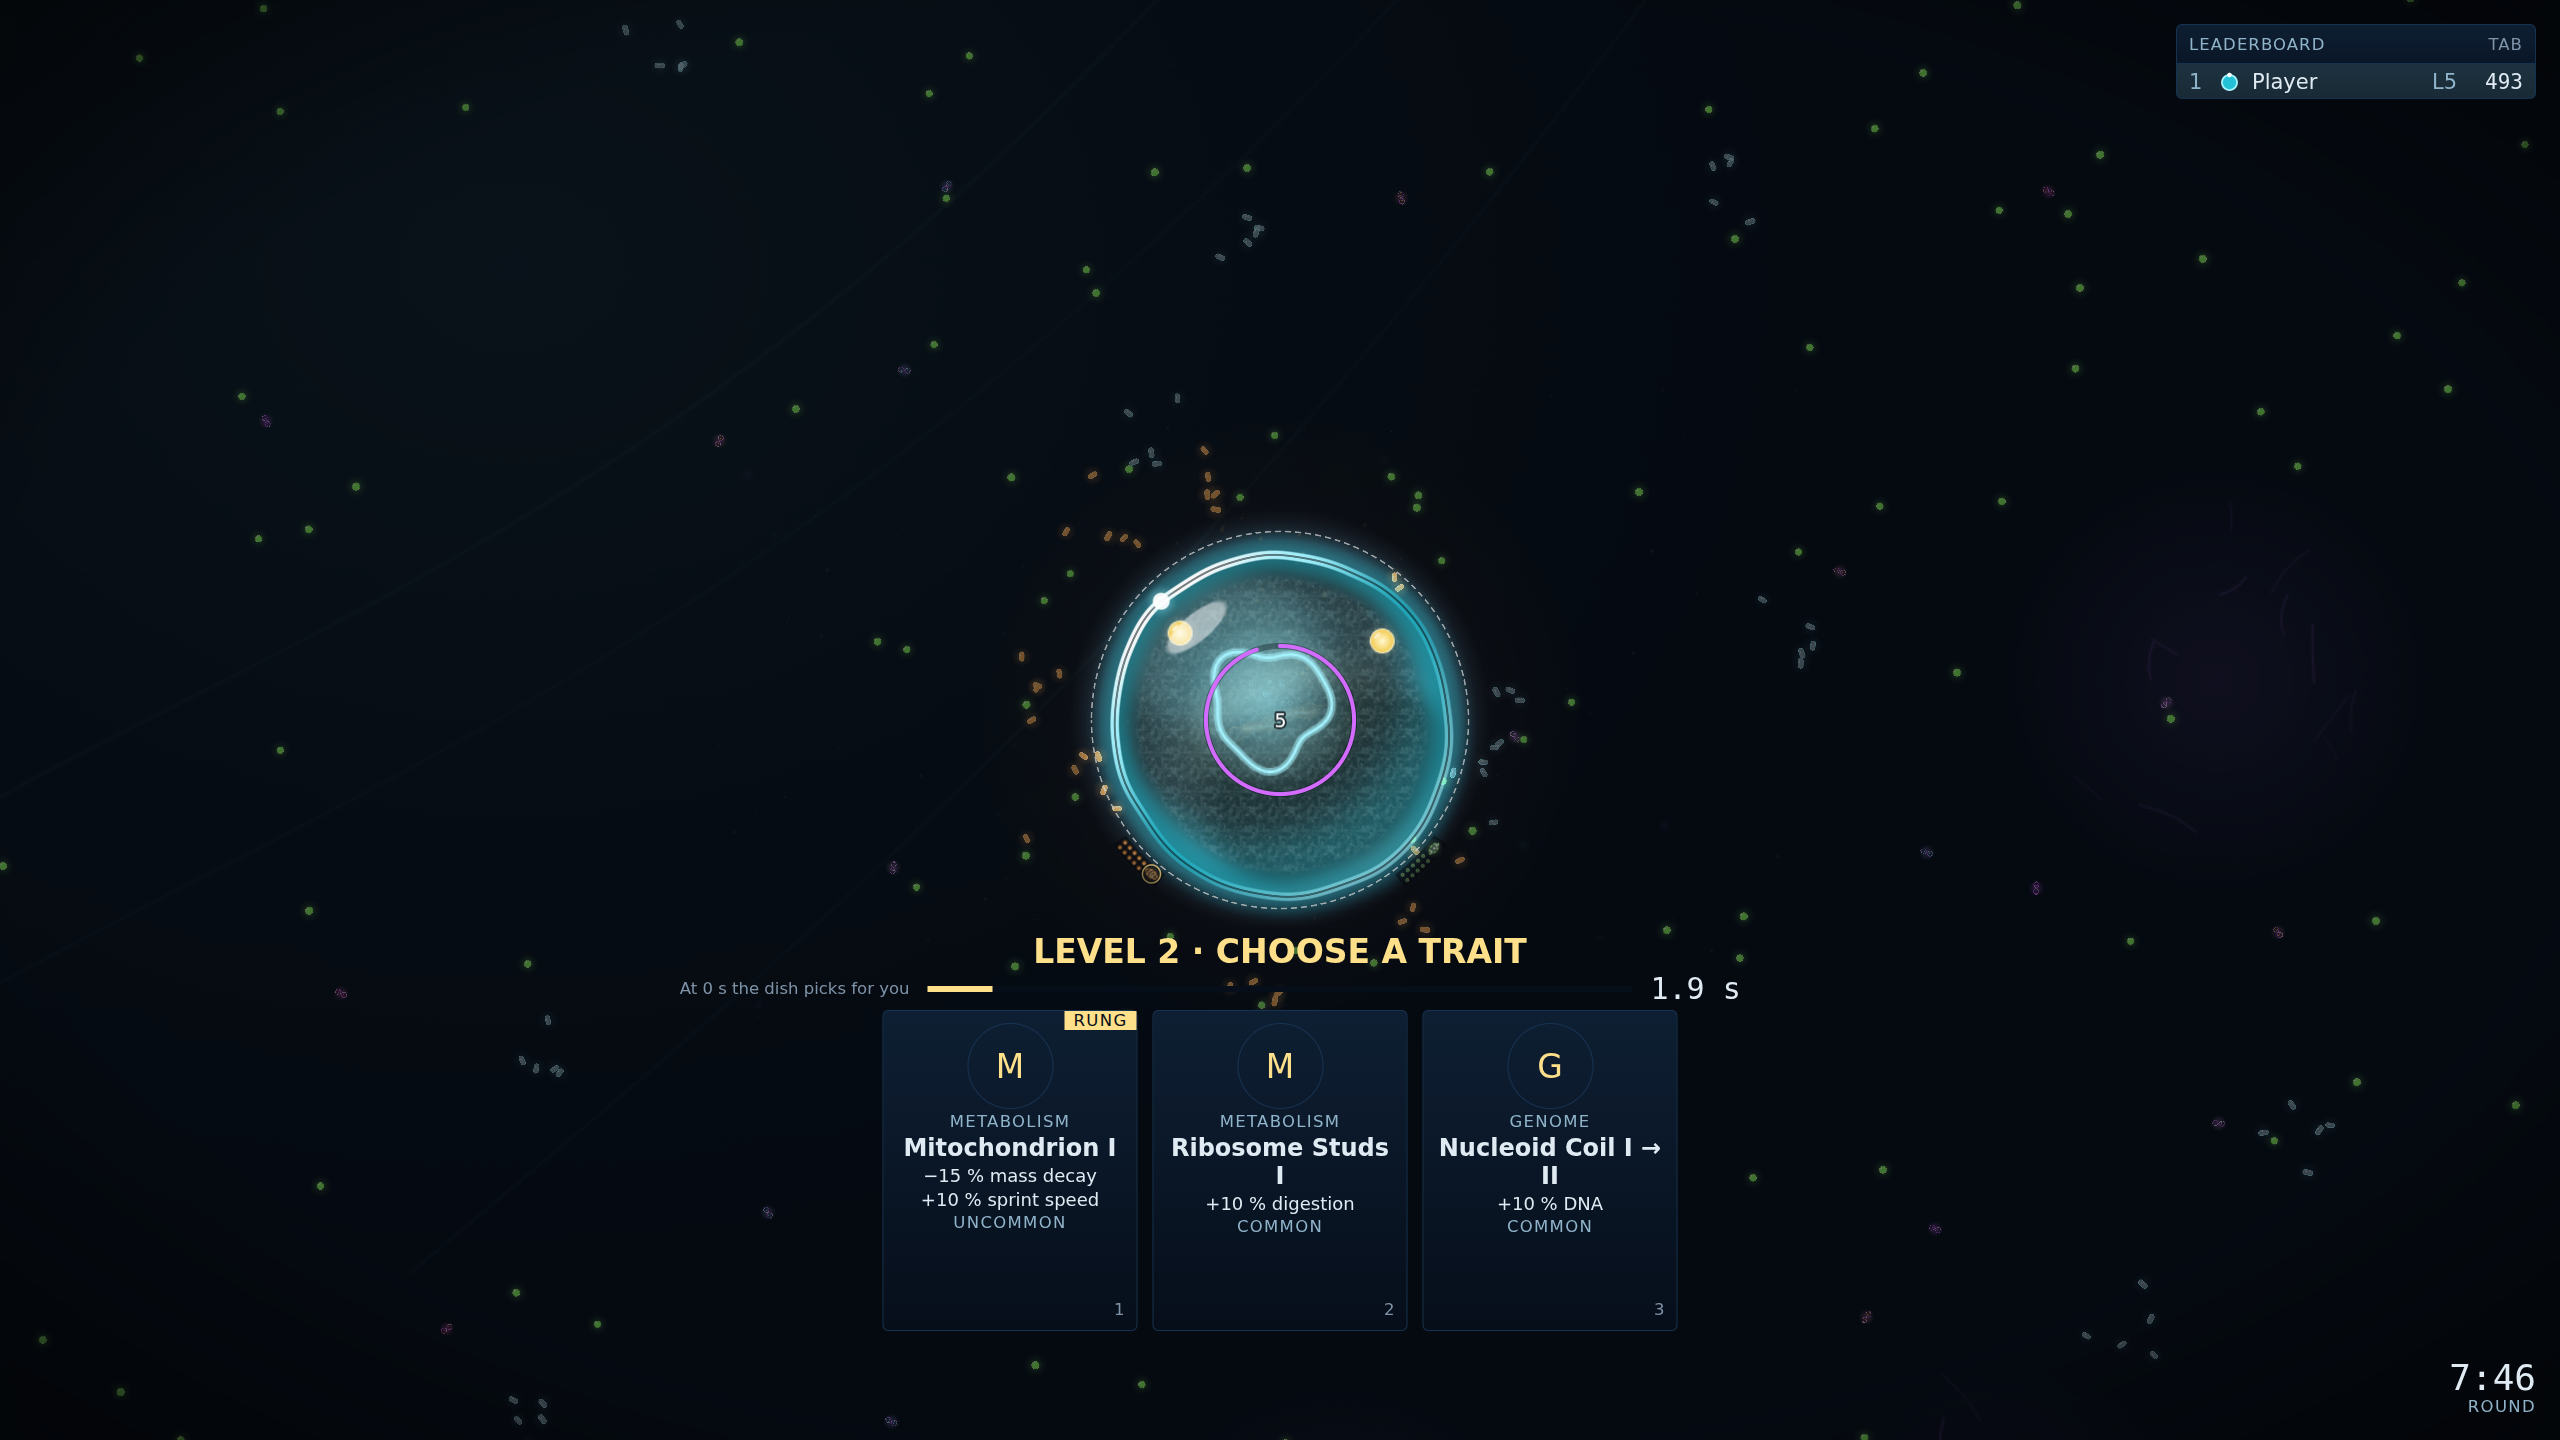
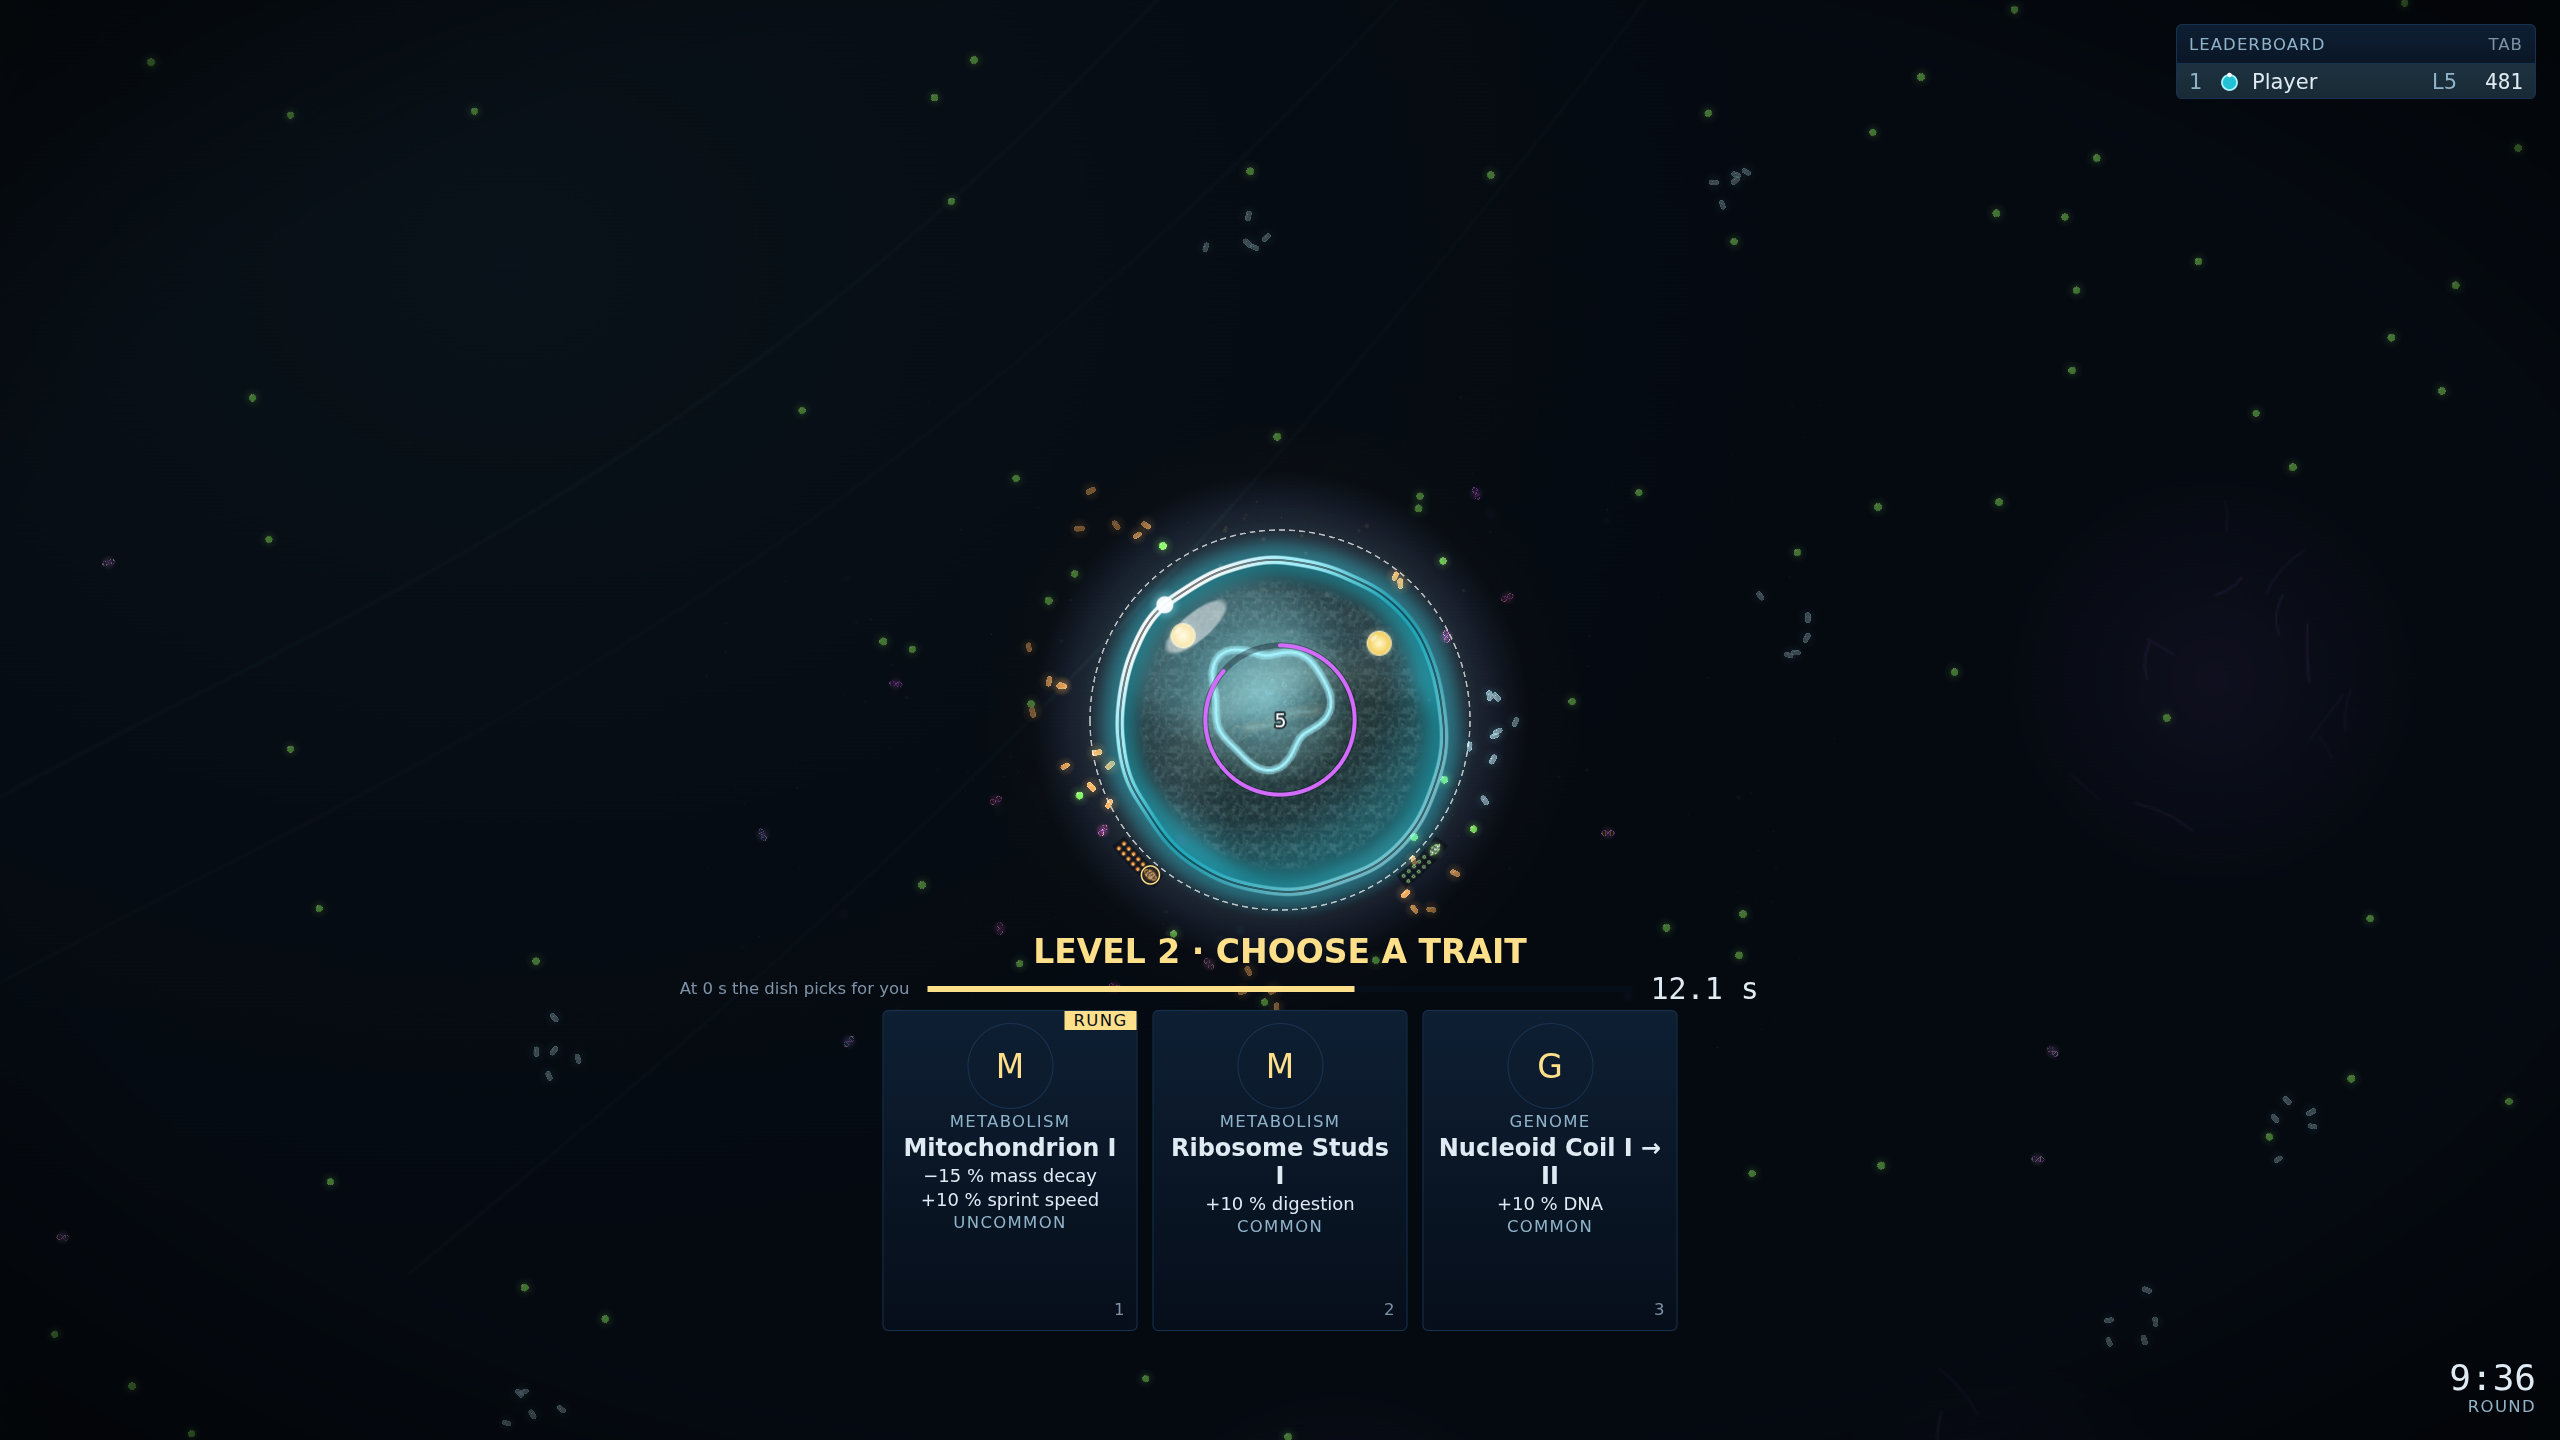
fix(hud): keep the picker dim's soft edge outside the cap orbit it clears (#384)
Review round on #404. The mask was clear to spotlight x PICKER_DIM_SOFT_EDGE_FRACTION and fully dimmed at the
spotlight, so the cap orbit sat inside the fade and its counters were greyed. It is now clear out to the spotlight
and reaches full dim at spotlight / PICKER_DIM_SOFT_EDGE_FRACTION, so the soft edge lies outside the orbit.

overlays.md §3.2 describes the new fade and both default-balance assumptions; camera.ts and picker-band.ts say in
their doc comments that their spawn and cap radii are the shipped balance's, not a patched room's. The
2560 x 1440 evidence frame is re-captured past the level-up clip.

diff --git a/packages/client/src/app/game/hud/trait-offer-overlay.component.css b/packages/client/src/app/game/hud/trait-offer-overlay.component.css
@@ -4,20 +4,20 @@
   pointer-events: none;
 }
 
-/* A DOM dim, never a Pixi quad; the own cell's disc stays clear out to its cap orbit (docs/ui/overlays.md §3.2). */
+/* A DOM dim, never a Pixi quad; fully clear out to the cap orbit, fading to full dim just past it (docs/ui/overlays.md §3.2). */
 .dim {
   position: absolute;
   inset: 0;
   background: rgb(0 0 0 / var(--hud-picker-dim-alpha));
   -webkit-mask-image: radial-gradient(
     circle at 50% 50%,
-    transparent calc(var(--hud-picker-spotlight) * var(--hud-picker-dim-soft-edge)),
-    black var(--hud-picker-spotlight)
+    transparent var(--hud-picker-spotlight),
+    black calc(var(--hud-picker-spotlight) / var(--hud-picker-dim-soft-edge))
   );
   mask-image: radial-gradient(
     circle at 50% 50%,
-    transparent calc(var(--hud-picker-spotlight) * var(--hud-picker-dim-soft-edge)),
-    black var(--hud-picker-spotlight)
+    transparent var(--hud-picker-spotlight),
+    black calc(var(--hud-picker-spotlight) / var(--hud-picker-dim-soft-edge))
   );
 }
 

diff --git a/packages/client/src/app/game/hud/hud-constants.ts b/packages/client/src/app/game/hud/hud-constants.ts
@@ -125,7 +125,7 @@ export const PICKER_DIM_ALPHA = 0.55;
  * flagellum's sprint cooldown). Lines are never cut; the spec fails the gate when a row outgrows this.
  */
 export const PICKER_CARD_EFFECT_LINES_MAX = 3;
-/** Where the dim's clear disc starts to fade, as a share of its radius: the soft edge. */
+/** The dim's clear disc as a share of where its soft edge reaches full dim: the fade runs from the disc to disc / this. */
 export const PICKER_DIM_SOFT_EDGE_FRACTION = 0.85;
 /** Gap between a card's medallion, category, name, effect lines and rarity. */
 export const PICKER_CARD_CONTENT_GAP_PX = 2;

diff --git a/packages/client/src/app/game/hud/format/picker-band.ts b/packages/client/src/app/game/hud/format/picker-band.ts
@@ -10,6 +10,7 @@ import { ladderOrbitExtentPx } from '../../render/effects/own-cell-geometry';
 import { HUD_PLAYER_EXCLUSION_PX, PICKER_BAND_GAP_PX, PICKER_BAND_ORBIT_CLEARANCE_PX } from '../hud-constants';
 import { hudScaleFor } from './hud-scale';
 
+/** The shipped balance's cap: a room patched with `debug_set_balance` moves its true cap orbit, not this band. */
 const CAP_RADIUS_WU = radiusForMass(DEFAULT_BALANCE.growth.CELL_MAX_MASS, DEFAULT_BALANCE.growth);
 
 /** ui/hud.md §3.1.3's orbit extent (backing edge) for the own cell at `CELL_MAX_MASS`, under the Z1 camera, on this viewport. */

diff --git a/packages/client/src/app/game/render/camera.ts b/packages/client/src/app/game/render/camera.ts
@@ -55,7 +55,7 @@ export interface WorldPoint {
   readonly y: number;
 }
 
-/** The starting cell's radius (wu): the view leaves its floor exactly there. */
+/** The starting cell's radius (wu) at the shipped balance: the view leaves its floor exactly there, whatever a patched room says. */
 const SPAWN_RADIUS_WU = radiusForMass(DEFAULT_BALANCE.growth.CELL_STARTING_MASS, DEFAULT_BALANCE.growth);
 
 /**

diff --git a/docs/INDEX.md b/docs/INDEX.md
@@ -515,15 +515,15 @@ and read only that line range (`sed -n 'start,endp' docs/FILE.md`). Regenerate a
 - **1. Layout frame** (L5–90): Reference viewport `HUD_REFERENCE_VIEWPORT_WIDTH_PX` × `HUD_REFERENCE_VIEWPORT_HEIGHT_PX` (1280 × 800 CSS px), HUD scale 1.
 - **2. Screens (lobby)** (L91–103): The join flow is the template's (#100: "lobby tagline and join flow unchanged"), with the game's config fields and stable test ids added.
 
-## ui/overlays.md (257 lines)
+## ui/overlays.md (258 lines)
 
-- **Evolution — UI: HUD, overlays and onboarding: trait pick, death, results, menu and notices** (L1–257): §3.2–§3.7 of the split `UI.md`, which keeps the shared context and the file list.
-  - **3.2 Trait pick overlay (`ownProgress.offer !== null`)** (L5–77): Cards are built from `offer.cards[i]` (`traitId`, `tier`) and the catalog (`TRAIT_CATALOG`, `TRAIT_TIERS`); the effect text is generated by…
-  - **3.3 Death and spectate (`ownProgress.lifeState === 'spectating'`)** (L78–91): The camera follows the killer (game-design/controls-and-scope.md §7), so the overlay keeps the centre clear: a 30 % dim and a text block a…
-  - **3.4 Round results and rematch (`roundPhase === 'results'`)** (L92–102): Cells freeze and input is ignored (game-design/session.md §5.4), so the exclusion rule is suspended.
-  - **3.5 Menu (Escape)** (L103–168): Escape closes the topmost open overlay (the full leaderboard, then the encyclopedia by `encyclopedia.md §11.5`) and, with none open, sets …
-  - **3.6 Notices: toasts and connection states** (L169–200): One toast at a time, top-centre at y 16, `body` on the callout backing, `TOAST_DURATION_SECONDS`, newest replaces oldest, `aria-live="polit…
-  - **3.7 Hold-Tab "affecting you" panel (`openOverlay === 'leaderboard'` and `lifeState === 'alive'`)** (L201–257): Decision #324 (option C).
+- **Evolution — UI: HUD, overlays and onboarding: trait pick, death, results, menu and notices** (L1–258): §3.2–§3.7 of the split `UI.md`, which keeps the shared context and the file list.
+  - **3.2 Trait pick overlay (`ownProgress.offer !== null`)** (L5–78): Cards are built from `offer.cards[i]` (`traitId`, `tier`) and the catalog (`TRAIT_CATALOG`, `TRAIT_TIERS`); the effect text is generated by…
+  - **3.3 Death and spectate (`ownProgress.lifeState === 'spectating'`)** (L79–92): The camera follows the killer (game-design/controls-and-scope.md §7), so the overlay keeps the centre clear: a 30 % dim and a text block a…
+  - **3.4 Round results and rematch (`roundPhase === 'results'`)** (L93–103): Cells freeze and input is ignored (game-design/session.md §5.4), so the exclusion rule is suspended.
+  - **3.5 Menu (Escape)** (L104–169): Escape closes the topmost open overlay (the full leaderboard, then the encyclopedia by `encyclopedia.md §11.5`) and, with none open, sets …
+  - **3.6 Notices: toasts and connection states** (L170–201): One toast at a time, top-centre at y 16, `body` on the callout backing, `TOAST_DURATION_SECONDS`, newest replaces oldest, `aria-live="polit…
+  - **3.7 Hold-Tab "affecting you" panel (`openOverlay === 'leaderboard'` and `lifeState === 'alive'`)** (L202–258): Decision #324 (option C).
 
 ## ui/README.md (7 lines)
 

diff --git a/docs/ui/overlays.md b/docs/ui/overlays.md
@@ -40,10 +40,11 @@ without copy fails the gate instead of rendering `undefined`.
   band (§3.1.3). The hint pill is hidden while the offer is open; the own-cell indicators, timer and leaderboard
   stay.
 - **Dim.** A DOM overlay owned by this doc, not a Pixi quad: a 55 % black `<div>` over the canvas with a
-  soft-edged clear disc of radius `pickerSpotlightRadiusPx(viewport)` =
-  `max(HUD_PLAYER_EXCLUSION_PX × s, capOrbitExtentPx)` around the centre (`hud/format/picker-band.ts`, the same cap
-  extent as the band, so under Z1 the dim never greys the outer edge of a big cell's orbit; `mask-image` radial
-  gradient); the HUD never touches Pixi, so visual-style/performance-and-checklist.md §8's "trait-picker dim" quad is superseded by this
+  clear disc of radius `pickerSpotlightRadiusPx(viewport)` = `max(HUD_PLAYER_EXCLUSION_PX × s, capOrbitExtentPx)`
+  around the centre (`hud/format/picker-band.ts`, the same cap extent as the band), fully clear out to that radius
+  and fading to the full dim at `radius / PICKER_DIM_SOFT_EDGE_FRACTION`, so the soft edge lies outside it and under
+  Z1 the dim never greys the outer edge of a big cell's orbit (`mask-image` radial gradient); both extents use the
+  shipped balance's `CELL_MAX_MASS`, so a room patched with `debug_set_balance` moves its cap orbit but not the band; the HUD never touches Pixi, so visual-style/performance-and-checklist.md §8's "trait-picker dim" quad is superseded by this
   element (corrected on #34). The dish keeps simulating and the cell keeps steering: pointer input is not captured
   by the overlay (`pointer-events: none` on everything but the cards).
 - **Card.** Glyph medallion 56 px, category in `caption`, name in `card_name` bold with tier numeral
